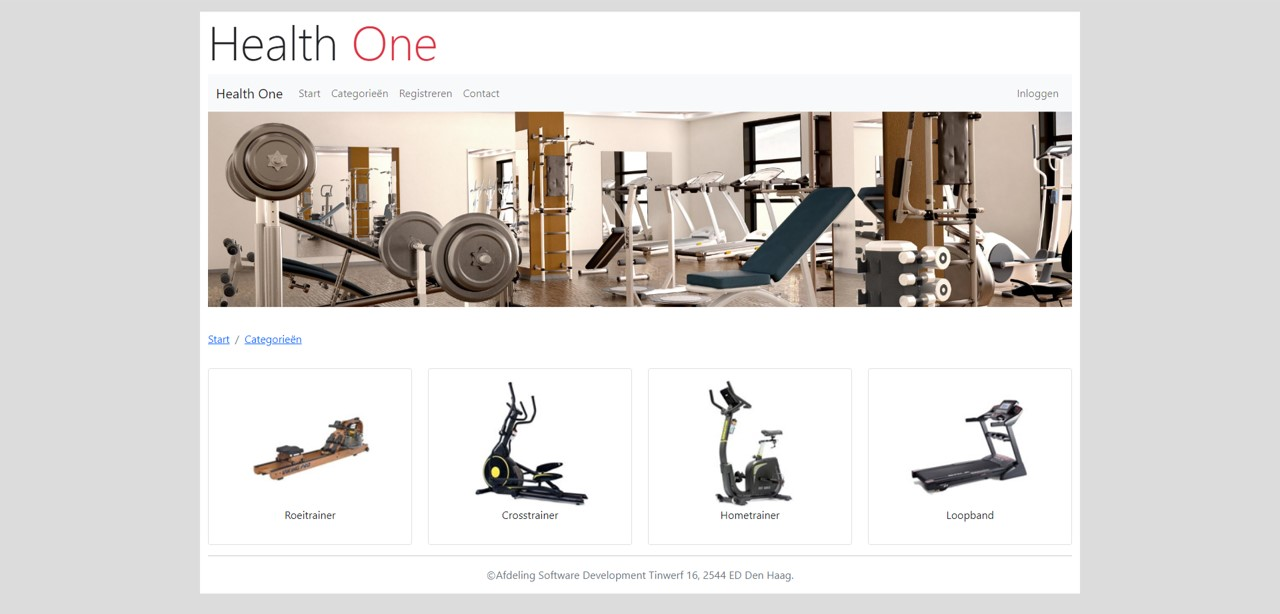
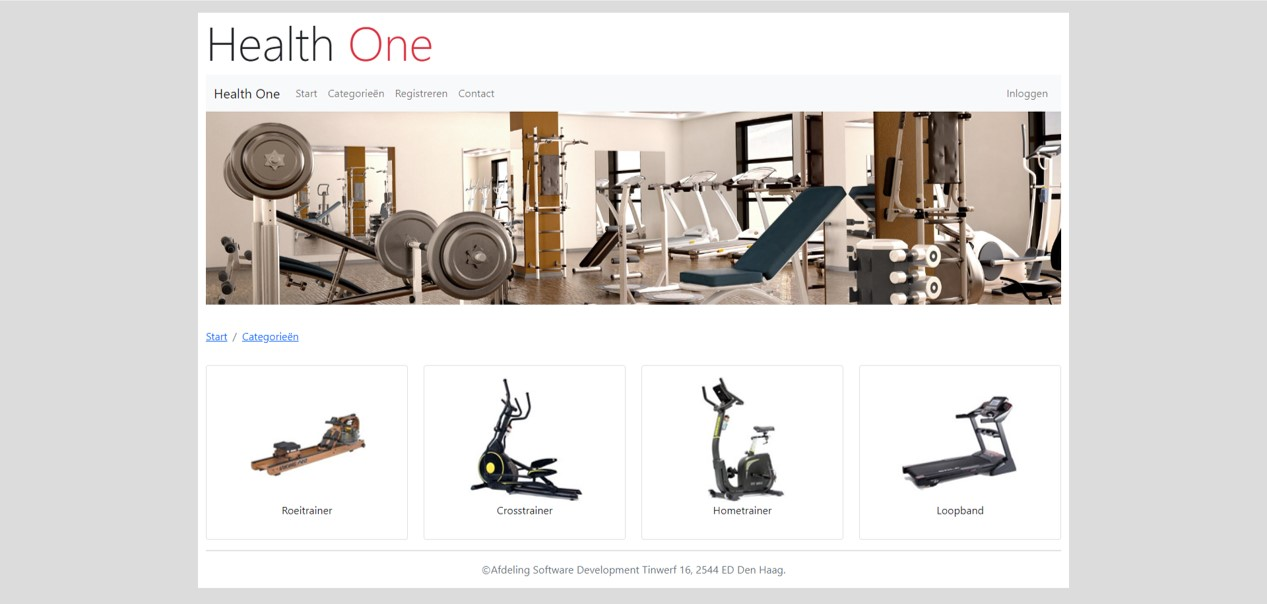
Afbeeldingen bijgewerkt.
De afbeeldingen voor de HealthOne projectpagina zijn bijgesneden.

diff --git a/css/style.css b/css/style.css
@@ -102,5 +102,9 @@ body {
 }
 
 .healthone img {
-    width: 60%;
+    border-radius: 30px
+}
+
+.slider img {
+    height: auto;
 }

diff --git a/projects_healthone.php b/projects_healthone.php
@@ -40,8 +40,8 @@ include_once ("template/nav.php");
             <div class="col-3"></div>
         </div>
     </div>
-    <div class="container-md">
-        <div id="carouselExampleCaptions" class="carousel slide" data-bs-ride="carousel">
+    <div class="container-md my-5">
+        <div id="carouselExampleCaptions" class="carousel slide w-75 mx-auto" data-bs-ride="carousel">
             <div class="carousel-indicators text-dark">
                 <button type="button" data-bs-target="#carouselExampleCaptions" data-bs-slide-to="0" class="active" aria-current="true" aria-label="Slide 1"></button>
                 <button type="button" data-bs-target="#carouselExampleCaptions" data-bs-slide-to="1" aria-label="Slide 2"></button>
@@ -51,62 +51,68 @@ include_once ("template/nav.php");
                 <button type="button" data-bs-target="#carouselExampleCaptions" data-bs-slide-to="5" aria-label="Slide 6"></button>
                 <button type="button" data-bs-target="#carouselExampleCaptions" data-bs-slide-to="6" aria-label="Slide 7"></button>
                 <button type="button" data-bs-target="#carouselExampleCaptions" data-bs-slide-to="7" aria-label="Slide 8"></button>
+                <button type="button" data-bs-target="#carouselExampleCaptions" data-bs-slide-to="8" aria-label="Slide 9"></button>
+                <button type="button" data-bs-target="#carouselExampleCaptions" data-bs-slide-to="9" aria-label="Slide 10"></button>
             </div>
-            <div class="carousel-inner">
+            <div class="slider carousel-inner">
                 <div class="carousel-item active">
-                    <img src="img/healthone/healthone.jpg" class="d-block w-100" alt="start healthone">
-                    <div class="carousel-caption d-none d-md-block">
-                        <h5>First slide label</h5>
-                        <p>Some representative placeholder content for the first slide.</p>
+                    <img src="img/healthone/healthone.jpg" class="d-block w-100 rounded" alt="start healthone">
+                    <div class="carousel-caption d-none d-md-block bg-dark bg-opacity-75">
+                        <p>Dit is de homepagina van HealthOne</p>
                     </div>
                 </div>
                 <div class="carousel-item">
-                    <img src="img/healthone/healthone_categories.jpg" class="d-block w-100" alt="categorieën">
-                    <div class="carousel-caption d-none d-md-block">
-                        <h5>Second slide label</h5>
-                        <p>Some representative placeholder content for the second slide.</p>
+                    <img src="img/healthone/healthone_categories.jpg" class="d-block w-100 mh-75 rounded" alt="categorieën">
+                    <div class="carousel-caption d-none d-md-block bg-dark bg-opacity-75">
+                        <p>Er zijn vier verschillende categorieën sportapparaten.</p>
                     </div>
                 </div>
                 <div class="carousel-item">
-                    <img src="img/healthone/healthone_reviews.jpg" class="d-block w-100" alt="reviews">
-                    <div class="carousel-caption d-none d-md-block">
-                        <h5>Third slide label</h5>
-                        <p>Some representative placeholder content for the third slide.</p>
+                    <img src="img/healthone/healthone_reviews.jpg" class="d-block w-100 mh-75 rounded" alt="reviews">
+                    <div class="carousel-caption d-none d-md-block bg-dark bg-opacity-75">
+                        <p>Bij elk apparaat staan reviews die geschreven zijn door de bezoekers.</p>
                     </div>
                 </div>
                 <div class="carousel-item">
-                    <img src="img/healthone/healthone_reviews.jpg" class="d-block w-100" alt="reviews">
-                    <div class="carousel-caption d-none d-md-block">
-                        <h5>Third slide label</h5>
-                        <p>Some representative placeholder content for the third slide.</p>
+                    <img src="img/healthone/healthone_contact.jpg" class="d-block w-100 rounded" alt="contact">
+                    <div class="carousel-caption d-none d-md-block bg-dark bg-opacity-75">
+                        <p>Er zijn verschillende manieren op contact op te nemen.</p>
                     </div>
                 </div>
                 <div class="carousel-item">
-                    <img src="img/healthone/healthone_reviews.jpg" class="d-block w-100" alt="reviews">
-                    <div class="carousel-caption d-none d-md-block">
-                        <h5>Third slide label</h5>
-                        <p>Some representative placeholder content for the third slide.</p>
+                    <img src="img/healthone/healthone_register.jpg" class="d-block w-100 rounded" alt="registreren">
+                    <div class="carousel-caption d-none d-md-block bg-dark bg-opacity-75">
+                        <p>Om een account aan te maken, moet je registreren.</p>
                     </div>
                 </div>
                 <div class="carousel-item">
-                    <img src="img/healthone/healthone_reviews.jpg" class="d-block w-100" alt="reviews">
-                    <div class="carousel-caption d-none d-md-block">
-                        <h5>Third slide label</h5>
-                        <p>Some representative placeholder content for the third slide.</p>
+                    <img src="img/healthone/healthone_login.jpg" class="d-block w-100 rounded" alt="inloggen">
+                    <div class="carousel-caption d-none d-md-block bg-dark bg-opacity-75">
+                        <p>Daarna kan je inloggen op de website.</p>
                     </div>
                 </div>
                 <div class="carousel-item">
-                    <img src="img/healthone/healthone_reviews.jpg" class="d-block w-100" alt="reviews">
-                    <div class="carousel-caption d-none d-md-block">
-                        <h5>Third slide label</h5>
-                        <p>Some representative placeholder content for the third slide.</p>
+                    <img src="img/healthone/healthone_loggedin.jpg" class="d-block w-100 rounded" alt="ingelogd">
+                    <div class="carousel-caption d-none d-md-block bg-dark bg-opacity-75">
+                        <p>Als je bent ingelogd, kom je op je eigen homepagina.</p>
                     </div>
                 </div>
                 <div class="carousel-item">
-                    <img src="img/healthone/healthone_reviews.jpg" class="d-block w-100" alt="reviews">
-                    <div class="carousel-caption d-none d-md-block">
-                        <h5>Third slide label</h5>
-                        <p>Some representative placeholder content for the third slide.</p>
+                    <img src="img/healthone/healthone_change_profile.jpg" class="d-block w-100 rounded" alt="profiel veranderen">
+                    <div class="carousel-caption d-none d-md-block bg-dark bg-opacity-75">
+                        <p>Je kan zelf je profiel veranderen.</p>
+                    </div>
+                </div>
+                <div class="carousel-item">
+                    <img src="img/healthone/healthone_change_password.jpg" class="d-block w-100 rounded" alt="wachtwoord veranderen">
+                    <div class="carousel-caption d-none d-md-block bg-dark bg-opacity-75">
+                        <p>Wachtwoord kan ook veranderd worden.</p>
+                    </div>
+                </div>
+                <div class="carousel-item">
+                    <img src="img/healthone/healthone_new_review.jpg" class="d-block w-100 rounded" alt="nieuwe review">
+                    <div class="carousel-caption d-none d-md-block bg-dark bg-opacity-75">
+                        <p>Je moet ingelogd zijn om een review te kunnen schrijven.</p>
                     </div>
                 </div>
             </div>
